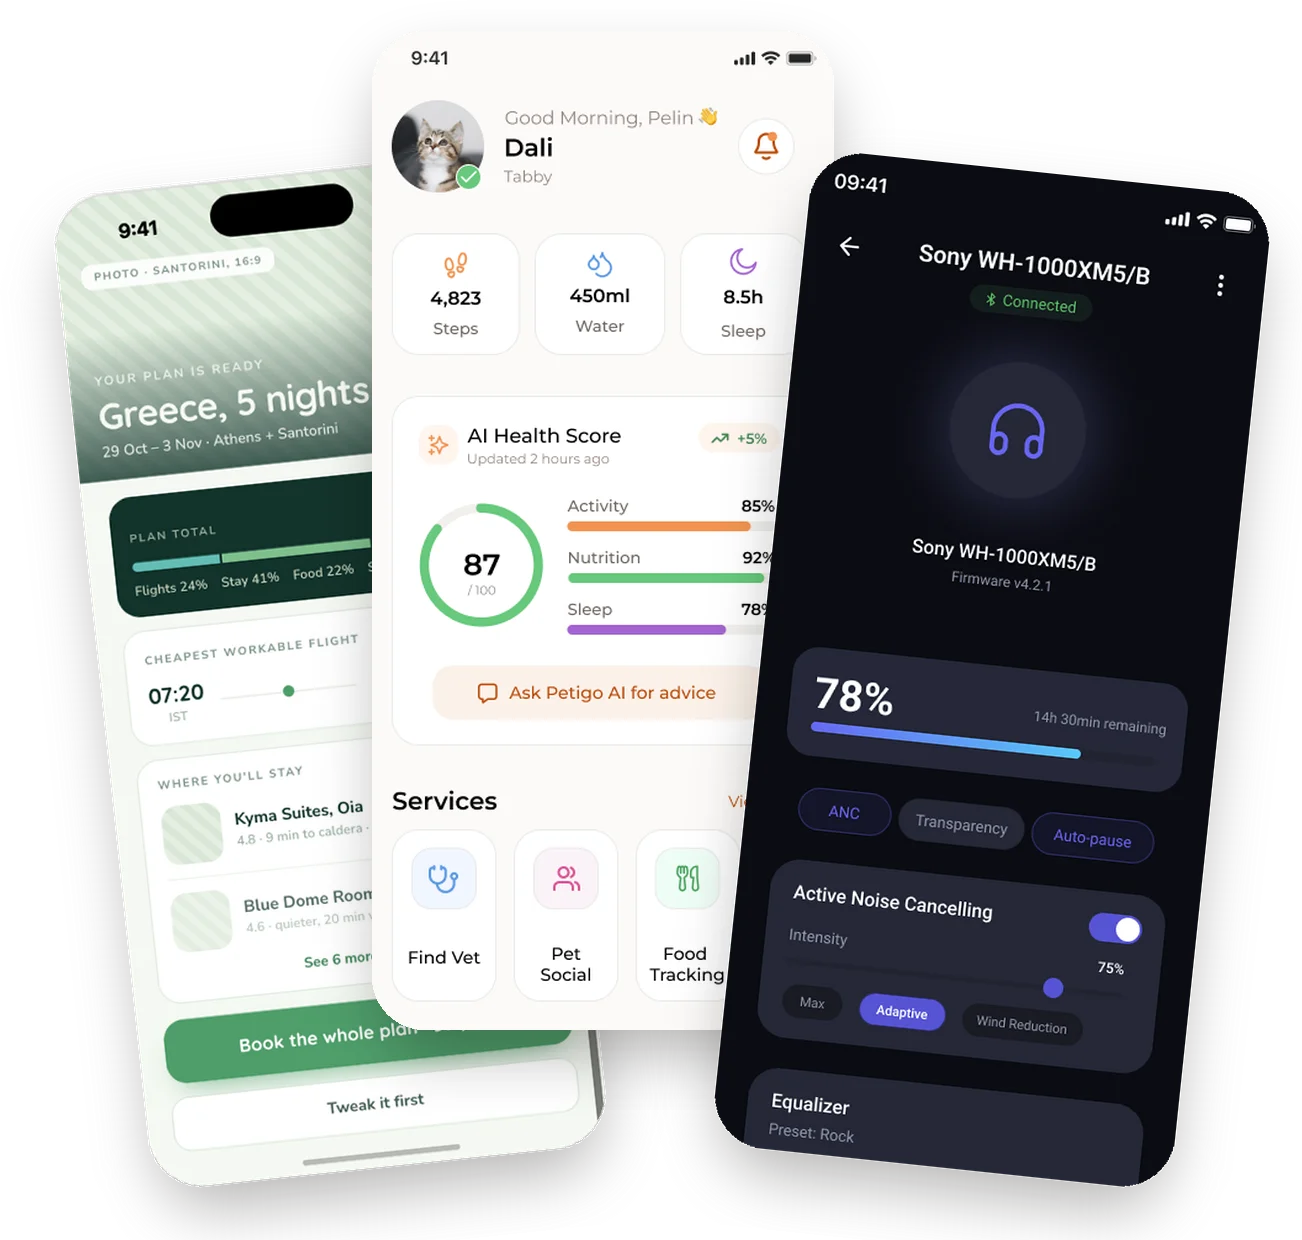
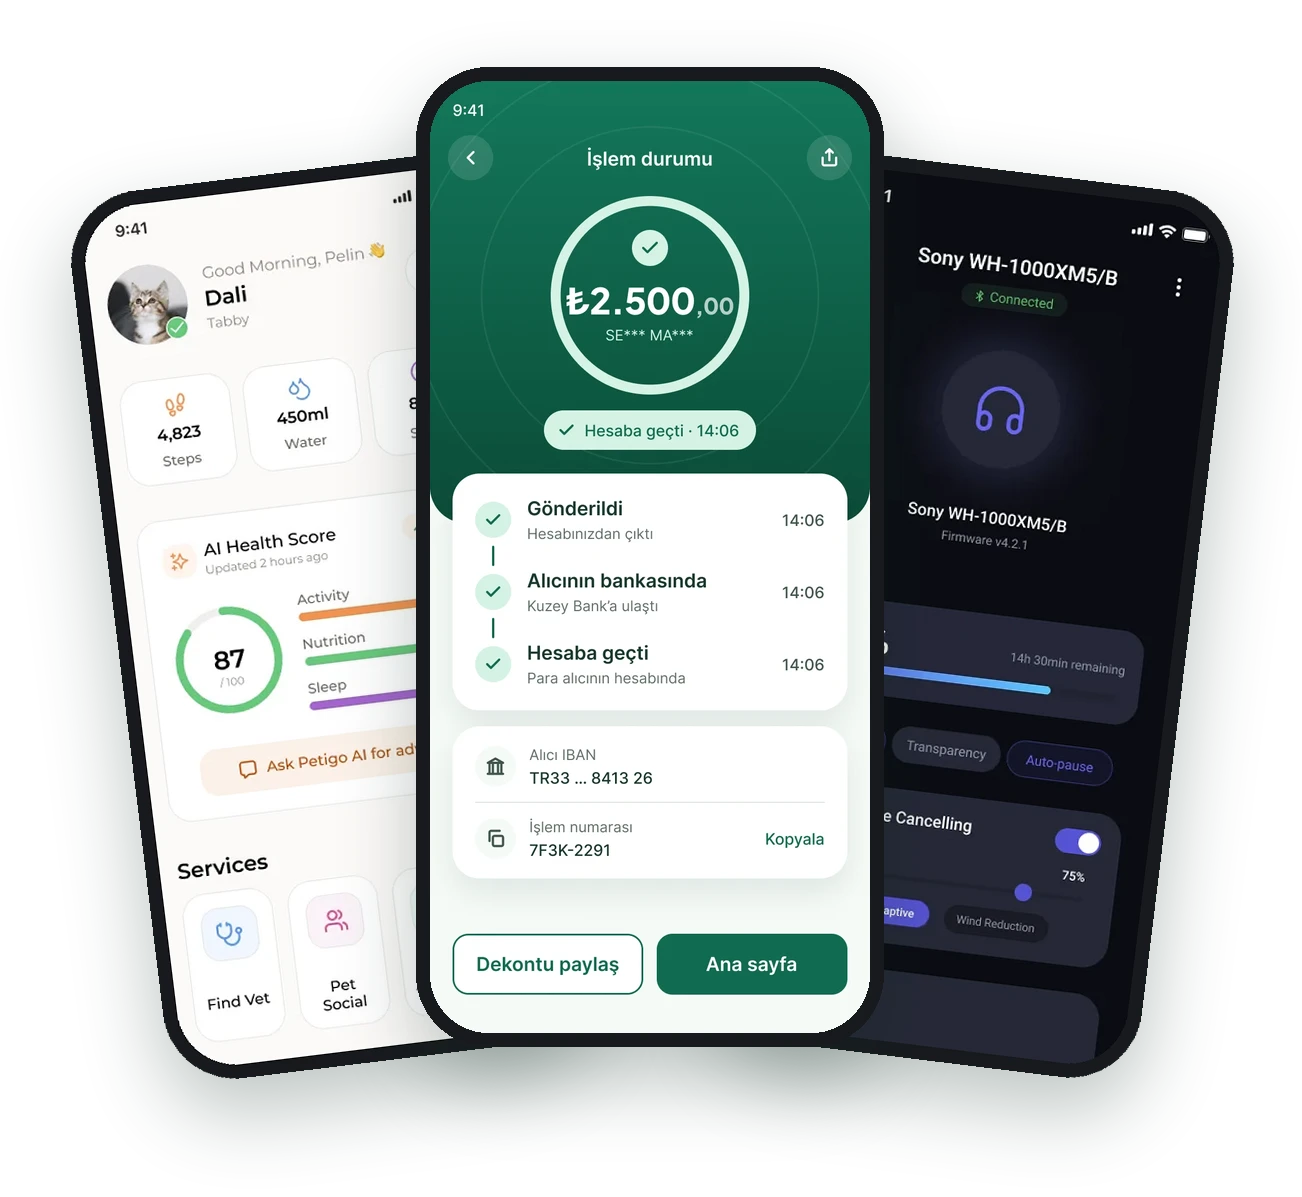
Hero collage: Odakbank in front, with Petigo and AudioFlow
Claude-Session: https://claude.ai/code/session_01SkajtJQdqzcj5TnmeeF6aY

diff --git a/index.html b/index.html
@@ -34,7 +34,7 @@
     <div class="btns"><a class="btn solid" href="#work">See selected work</a><a class="btn" href="https://www.linkedin.com/in/serramarangoz" target="_blank" rel="noopener">LinkedIn <svg class="ext" aria-hidden="true" viewBox="0 0 24 24" width="1em" height="1em" fill="none" stroke="currentColor" stroke-width="2.2" stroke-linecap="round" stroke-linejoin="round"><path d="M7 17L17 7"/><path d="M8 7h9v9"/></svg></a></div>
     <div class="facts tabular"><div><b>5</b><span>Case studies with live prototypes</span></div><div><b>7</b><span>Daily UI challenges</span></div><div><b>1</b><span>Live product site</span></div></div>
   </div>
-  <div class="collage"><img src="assets/img/hero-collage.webp" alt="Screens from Travel Mates, Petigo and AudioFlow" width="1302" height="1240" fetchpriority="high"></div>
+  <div class="collage"><img src="assets/img/hero-collage.webp" alt="Screens from Odakbank, Petigo and AudioFlow" width="1302" height="1197" fetchpriority="high"></div>
 </div></section>
 
 <section class="sec" id="work"><div class="wrap">
